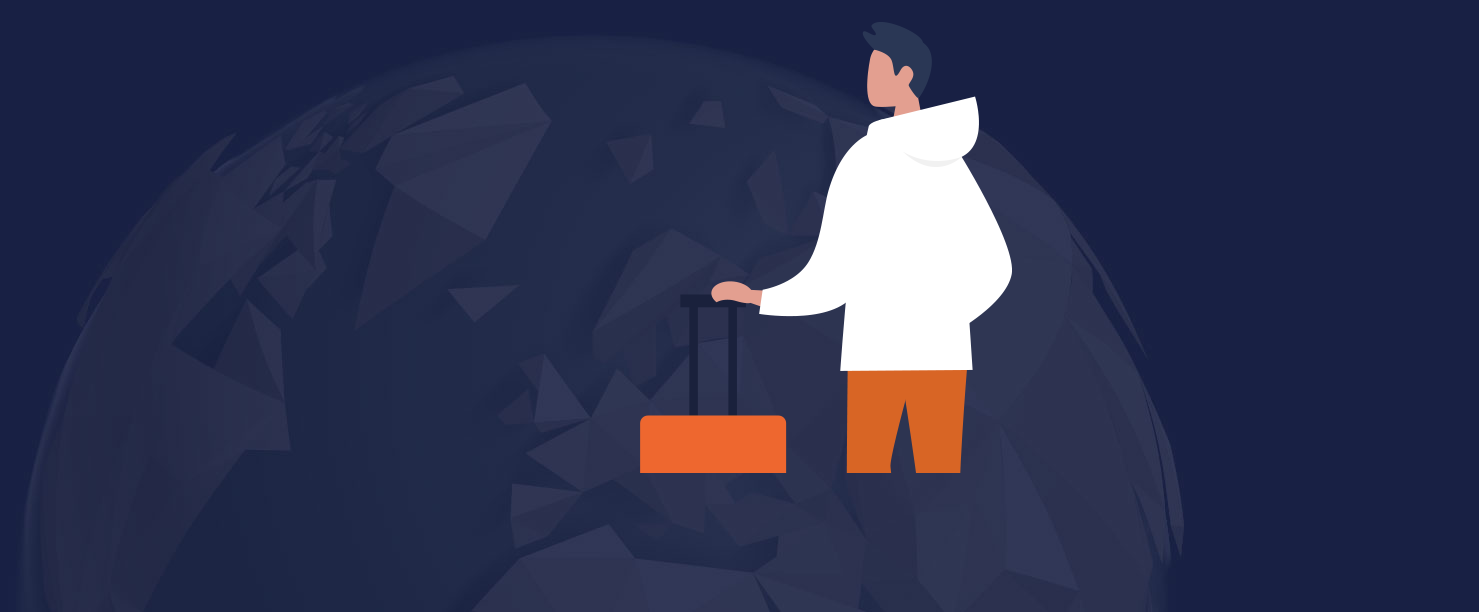
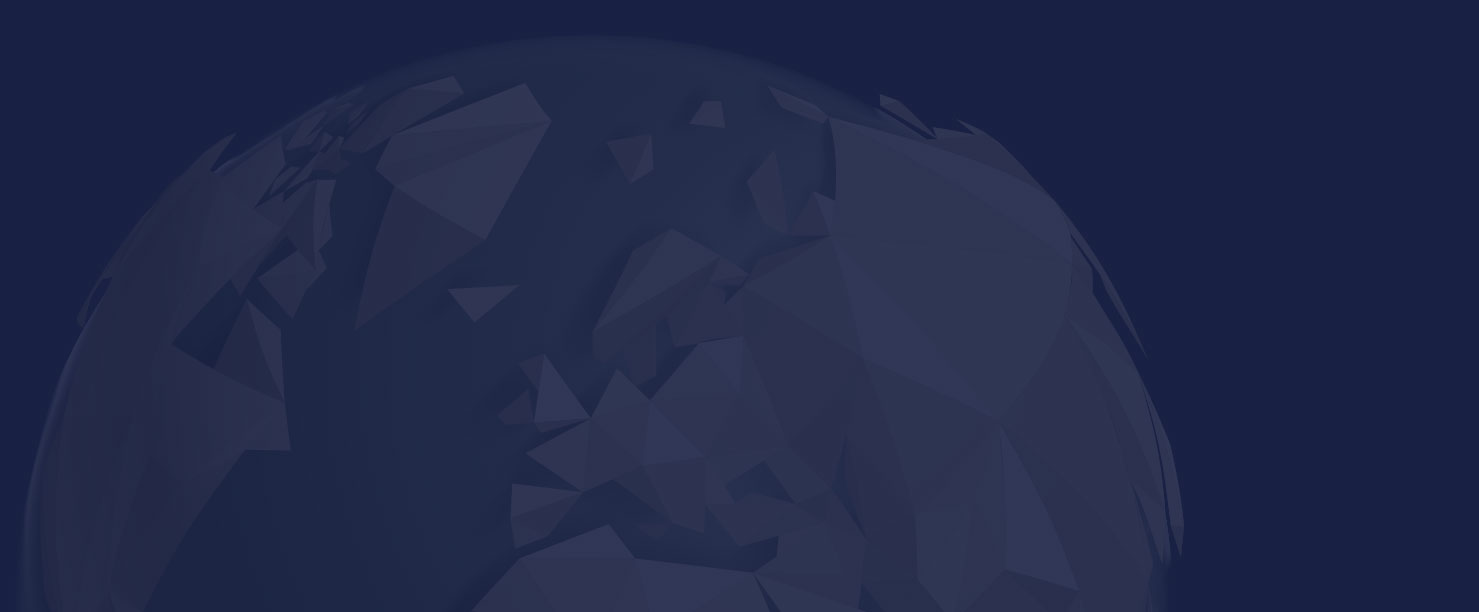
Подгоняет PP хедер и промо на странице индекс планшета

Changed region(s): [[0.4665, 0.0931, 0.6842, 0.7761], [0.4354, 0.652, 0.5287, 0.7761], [0.4665, 0.5588, 0.4976, 0.6209]]

diff --git a/source/sass/blocks/action-steps.scss b/source/sass/blocks/action-steps.scss
@@ -42,36 +42,24 @@
   @media (min-width: $tablet-width) {
     margin-top: 0;
     flex-direction: column;
-    padding: 31px 33px;
+    padding: 31px 32px 21px;
 
-    // &:first-child {
-    //   border-top-left-radius: 18px;
-    //   border-top-right-radius: 0;
-    // }
+    &:first-child {
+      width: 365px;
+      border-radius: 20px 0 0 0;
+    }
 
     &:nth-child(3n-1) {
-      width: 375px;
-      margin-left: -31px;
-      // border-top-left-radius: 18px;
-      // border-top-right-radius: 18px;
+      border-radius: 20px 20px 0 0;
     }
 
     &:nth-child(4n-1) {
-      width: 375px;
-      margin-left: -31px;
-      // border-top-left-radius: 0;
-      // border-bottom-left-radius: 18px;
+      width: 365px;
+      border-radius: 0 0 0 20px;
     }
 
     &:nth-child(5n-1) {
-      width: 315px;
-      margin-left: -31px;
-      padding-right: 33px;
-      // border-top-right-radius: 18px;
-      // border-top-left-radius: 0;
-      // border-top-right-radius: 0;
-      // border-bottom-right-radius: 18px;
-      // border-bottom-left-radius: 18px;
+      border-radius: 0 0 20px 20px;
     }
 
     &:nth-child(3n-1),
@@ -134,6 +122,7 @@
   @media (min-width: $tablet-width) {
     font-size: 30px;
     line-height: 30px;
+    font-weight: 700;
   }
 
   @media (min-width: $desktop-width) {

diff --git a/source/sass/blocks/promo.scss b/source/sass/blocks/promo.scss
@@ -11,8 +11,10 @@
     grid-template-columns: 1fr 1fr;
     row-gap: 38px;
     background-color: $special-blue-750;
-    background-image: url("/img/globe-back-tablet.png");
-    background-position: center 240px;
+    background-image: url("/img/traveller-illustration-tablet.png"),
+    url("/img/globe-back-desktop-tablet.png");
+    background-position: 72% 275px,center 240px;
+    background-size: 372px 451px, 100%;
   }
 
   @media (min-width: $desktop-width) {
@@ -20,8 +22,8 @@
     background-color: $special-blue-790;
     background-image: url("/img/traveller-illustration.png"),
     url("/img/globe-back-desktop.png");
-    background-size: 430px 640px, contain;
-    background-position: 60% 0, center -80px;
+    background-size: 430px 640px, 100%;
+    background-position: 60% 0, 0px -108px;
   }
 }
 
@@ -31,6 +33,7 @@
   @media (min-width: $tablet-width) {
     grid-column: 1/-1;
     grid-row: 1/2;
+    padding-top: 33px;
   }
 
   @media (min-width: $desktop-width) {
@@ -49,7 +52,7 @@
   color: $basic-while;
 
   @media (min-width: $tablet-width) {
-    padding: 35px 0 0;
+    padding: 0;
     font-size: 60px;
     line-height: 70px;
   }

diff --git a/source/sass/blocks/review.scss b/source/sass/blocks/review.scss
@@ -17,7 +17,7 @@
   @media (min-width: $tablet-width) {
     display: grid;
     grid-template-columns: 365px 1fr;
-    row-gap: 165px;
+    row-gap: 182px;
   }
 
   @media (min-width: $desktop-width) {
@@ -34,6 +34,8 @@
 
   @media (min-width: $tablet-width) {
     grid-column: 1/2;
+    padding-left: 73px;
+    padding-right: 30px;
     width: 367px;
   }
 
@@ -52,6 +54,7 @@
 
   @media (min-width: $tablet-width) {
     grid-column: 1/-1;
+    padding: 0 40px 39px;
     background-image: linear-gradient(45deg, $special-blue-550 50%, $special-blue-550 50%);
   }
 

diff --git a/source/sass/blocks/page-header.scss b/source/sass/blocks/page-header.scss
@@ -24,7 +24,7 @@
     grid-template-columns: 1fr 1fr 1fr;
     align-items: center;
     padding-top: 40px;
-    padding-bottom: 91px;
+    padding-bottom: 40px;
   }
 
   @media (min-width: $desktop-width) {
@@ -248,6 +248,8 @@
 
   @media (min-width: $tablet-width) {
     display: block;
+    width: 168px;
+    height: 42px;
 
     &--dark {
       display: none;
